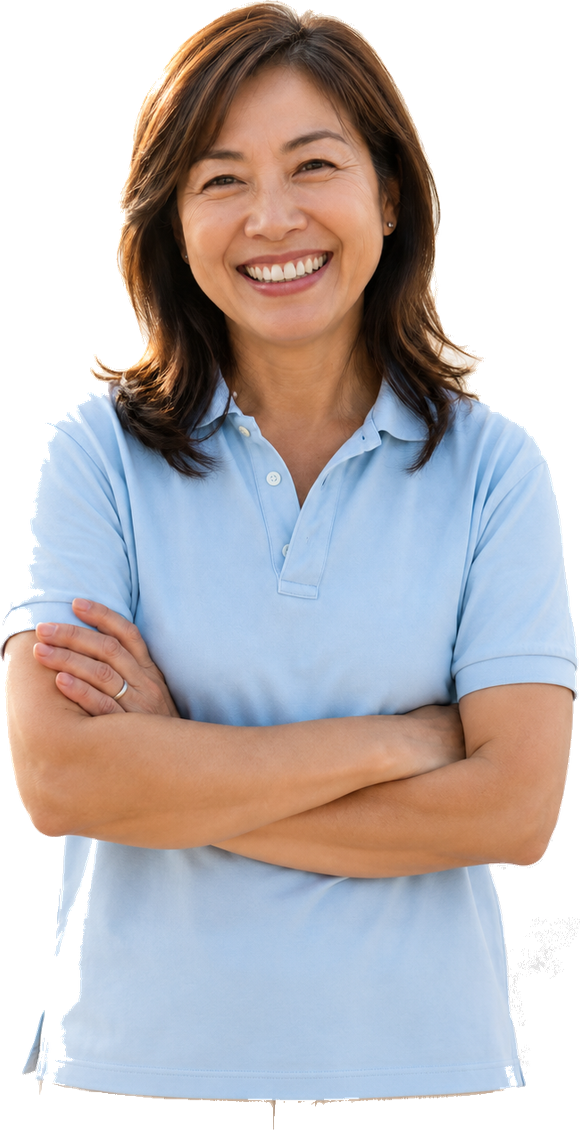
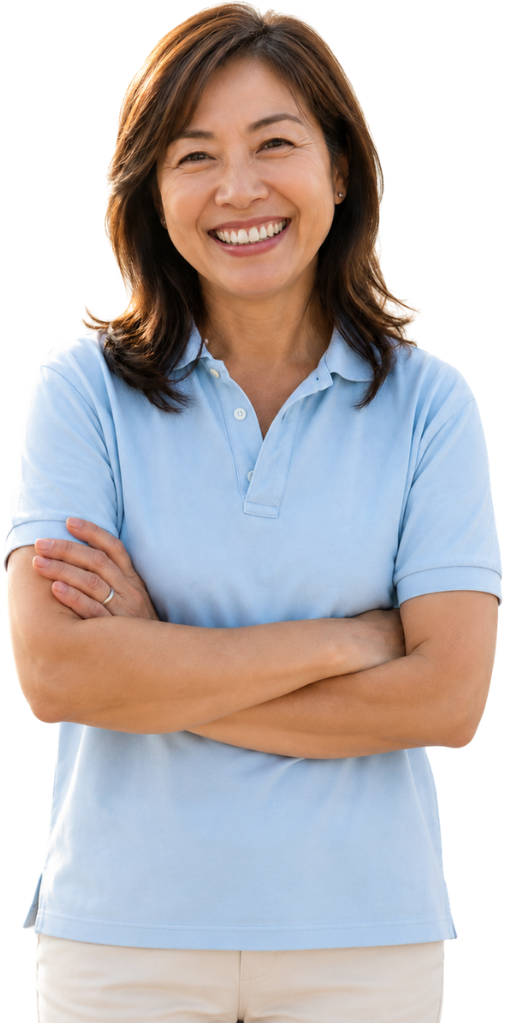
Flow 1: match testimonials to flow 2 (video + text quote cards, "What people are saying"). /full: use user's new clean woman cutout (no editing needed)
Claude-Session: https://claude.ai/code/session_014opSkJ5xHgMgTEtidU8aMQ

diff --git a/public/landing/index.html b/public/landing/index.html
@@ -233,34 +233,29 @@
     .clinic-doc .doc-cred { font-size:12px; color:var(--brand); font-weight:700; margin-top:2px; }
     .clinic-doc .doc-role { font-size:12px; color:var(--ink-soft); margin-top:2px; line-height:1.4; }
 
-    /* SOCIAL PROOF (testimonials) - moving marquee */
-    .reviews-mq { overflow:hidden; padding:6px 0; -webkit-mask-image:linear-gradient(90deg,transparent,#000 5%,#000 95%,transparent); mask-image:linear-gradient(90deg,transparent,#000 5%,#000 95%,transparent); }
-    .reviews-track { display:flex; gap:20px; width:max-content; animation:reviewscroll 64s linear infinite; }
-    .reviews-mq:hover .reviews-track { animation-play-state:paused; }
-    .reviews-track .quote { width:350px; flex-shrink:0; }
-    @keyframes reviewscroll { from { transform:translateX(0); } to { transform:translateX(-50%); } }
-    /* Full-bleed magazine card: photo spans the full top, name + quote below. */
-    .quote { background:var(--card); border:1px solid var(--line); border-radius:var(--radius); padding:0; box-shadow:var(--shadow); display:flex; flex-direction:column; overflow:hidden; }
-    .quote .mark { display:none; } /* drop the big curly mark in this layout */
-    /* The .by wrapper becomes the full-width photo banner (order -1 = on top). */
-    .quote .by { order:-1; display:block; position:relative; margin:0; }
-    /* Photo banner: full width, fixed aspect, edge-to-edge across the card top. */
-    .quote .avatar { position:relative; width:100%; height:200px; border-radius:0; background:linear-gradient(135deg,var(--brand-2),var(--brand)); color:#fff; font-weight:800; font-size:56px; display:grid; place-items:center; overflow:hidden; }
-    /* Image fills the banner via absolute positioning so a slow/failed load can
-       never collapse the 200px height; the initials sit behind as a fallback. */
-    .quote .avatar img { position:absolute; inset:0; width:100%; height:100%; object-fit:cover; object-position:center 25%; }
-    /* Name + role overlaid on a gradient scrim at the bottom of the photo.
-       Target the name block specifically (NOT .avatar, which is also a > div
-       child of .by) - otherwise the avatar gets position:absolute and collapses. */
-    .quote .by > div:not(.avatar) { position:absolute; left:0; right:0; bottom:0; padding:32px 22px 14px; text-align:left;
-      background:linear-gradient(180deg, transparent, rgba(20,12,6,.82)); }
-    .quote .by-name { font-weight:800; font-size:18px; color:#fff; }
-    .quote .by-role { font-weight:500; font-size:13px; color:rgba(255,255,255,.85); margin-top:2px; }
-    /* Quote text sits in the padded panel below the photo. */
-    .quote p.text { font-size:15px; color:var(--ink); line-height:1.62; flex:1; margin:0; padding:22px 24px 26px; }
-    .quote p.text::before { content:"\201C"; font-family:Georgia,serif; color:var(--brand-2); font-size:30px; line-height:0; vertical-align:-8px; margin-right:4px; }
-    @media (prefers-reduced-motion:reduce) { .reviews-track { animation:none; } }
-    @media (max-width:680px) { .reviews-track .quote { width:82vw; } }
+    /* SOCIAL PROOF - video / member reviews (Mito-style tall cards) */
+    .vr-rating { display:flex; align-items:center; justify-content:center; gap:10px; margin:14px 0 38px; font-size:15px; color:var(--ink-soft); }
+    .vr-rating b { color:var(--ink); }
+    .vr-rating .stars { color:#00b67a; letter-spacing:2px; font-size:16px; }
+    .vr-row { display:flex; gap:20px; overflow-x:auto; overflow-y:hidden; -webkit-overflow-scrolling:touch; scroll-snap-type:x proximity; padding:0 22px 14px;
+      -webkit-mask-image:linear-gradient(90deg, transparent, #000 3%, #000 97%, transparent); mask-image:linear-gradient(90deg, transparent, #000 3%, #000 97%, transparent); }
+    .vr-row::-webkit-scrollbar { height:6px; }
+    .vr-row::-webkit-scrollbar-thumb { background:var(--line); border-radius:999px; }
+    .vr-row::-webkit-scrollbar-track { background:transparent; }
+    .vr-card { flex:0 0 300px; aspect-ratio:9 / 16; border-radius:20px; overflow:hidden; position:relative; background:#ece8e1; scroll-snap-align:start; }
+    .vr-card.video { background:linear-gradient(160deg, #cfd6d2, #9aa7a0 60%, #6c7a72); display:grid; place-items:center; }
+    .vr-card.video .play { width:56px; height:56px; border-radius:50%; background:rgba(255,255,255,.92); display:grid; place-items:center; box-shadow:0 8px 24px rgba(0,0,0,.25); }
+    .vr-card.video .play::before { content:""; border-style:solid; border-width:9px 0 9px 15px; border-color:transparent transparent transparent var(--ink); margin-left:3px; }
+    .vr-card.video .handle { position:absolute; left:16px; bottom:16px; color:#fff; font-size:13px; font-weight:600; text-shadow:0 1px 4px rgba(0,0,0,.4); }
+    .vr-card.video .badge { position:absolute; top:14px; right:14px; font-size:10px; font-weight:700; letter-spacing:.08em; color:rgba(255,255,255,.9); }
+    .vr-card.quote { background:var(--cream); display:flex; flex-direction:column; justify-content:center; text-align:center; padding:30px 26px; border:0; box-shadow:none; }
+    .vr-card.quote .stars { color:#1a1a1a; letter-spacing:2px; margin-bottom:16px; }
+    .vr-card.quote h4 { font-size:19px; color:var(--ink); margin-bottom:12px; }
+    .vr-card.quote p { font-size:15px; color:var(--ink-soft); line-height:1.55; margin-bottom:22px; }
+    .vr-card.quote .by { display:flex; align-items:center; justify-content:center; gap:9px; }
+    .vr-card.quote .by .av { width:30px; height:30px; border-radius:50%; background:var(--bg); display:grid; place-items:center; font-size:11px; font-weight:700; color:var(--ink-soft); border:1px solid var(--line); }
+    .vr-card.quote .by .nm { font-size:14px; font-weight:600; color:var(--ink); }
+    @media (max-width:520px) { .vr-card { flex-basis:78vw; } }
 
     /* FOOTER */
     footer { background:var(--deep); color:#d9cdba; padding:48px 0 30px; font-size:14px; }
@@ -490,26 +485,35 @@
     </div>
   </section>
 
-  <!-- SOCIAL PROOF -->
+  <!-- SOCIAL PROOF - video / member reviews -->
   <section class="section" style="padding-top:0;">
     <div class="wrap">
-      <div class="head"><h2>Trusted by people like you</h2></div>
+      <div class="head">
+        <h2>What people are saying</h2>
+        <p class="vr-rating"><span class="stars">★★★★★</span> <b>Excellent</b> 4.8 out of 5</p>
+      </div>
     </div>
-    <div class="reviews-mq">
-      <div class="reviews-track">
-        <div class="quote"><div class="mark">“</div><p class="text">Honestly, I track everything else - sleep, steps, my weight - but I'd never once looked at my brain. The quiz flagged two things I can actually do something about.</p><div class="by"><div class="avatar"><!-- PLACEHOLDER photo - swap for a real customer portrait --><img src="/landing/person-serene.jpg" alt="" loading="lazy" onerror="this.remove()" /><span>SL</span></div><div><p class="by-name">Serene Lim</p><p class="by-role">54, secondary school teacher</p></div></div></div>
-        <div class="quote"><div class="mark">“</div><p class="text">I had no idea sleep and blood pressure were this tied to brain health. I ended up booking a proper check for my dad too.</p><div class="by"><div class="avatar"><!-- PLACEHOLDER photo --><img src="/landing/person-marcus.jpg" alt="" loading="lazy" onerror="this.remove()" /><span>MT</span></div><div><p class="by-name">Marcus Tan</p><p class="by-role">47, sales manager</p></div></div></div>
-        <div class="quote"><div class="mark">“</div><p class="text">This actually felt useful. The brain fog finally felt like something I could measure, not just me being tired.</p><div class="by"><div class="avatar"><!-- PLACEHOLDER photo --><img src="/landing/person-priya.jpg" alt="" loading="lazy" onerror="this.remove()" /><span>PR</span></div><div><p class="by-name">Priya Raman</p><p class="by-role">39, marketing lead</p></div></div></div>
-        <div class="quote"><div class="mark">“</div><p class="text">I'd been blaming age for the forgetfulness. Turns out a few habits were the bigger driver - and those I can actually change.</p><div class="by"><div class="avatar"><!-- PLACEHOLDER photo --><img src="/landing/person-daniel.jpg" alt="" loading="lazy" onerror="this.remove()" /><span>DK</span></div><div><p class="by-name">Daniel Koh</p><p class="by-role">61, retired engineer</p></div></div></div>
-        <div class="quote"><div class="mark">“</div><p class="text">Quick, clear, and it didn't try to scare me. I ended up sharing my score with my GP.</p><div class="by"><div class="avatar"><!-- PLACEHOLDER photo --><img src="/landing/person-aisha.jpg" alt="" loading="lazy" onerror="this.remove()" /><span>AR</span></div><div><p class="by-name">Aisha Rahman</p><p class="by-role">43, nurse</p></div></div></div>
-        <div class="quote"><div class="mark">“</div><p class="text">I liked that it explained why each thing mattered. It felt like advice, not a sales pitch.</p><div class="by"><div class="avatar"><!-- PLACEHOLDER photo --><img src="/landing/person-weijie.jpg" alt="" loading="lazy" onerror="this.remove()" /><span>WO</span></div><div><p class="by-name">Wei Jie Ong</p><p class="by-role">35, software engineer</p></div></div></div>
-        <!-- duplicate set for a seamless loop -->
-        <div class="quote" aria-hidden="true"><div class="mark">“</div><p class="text">Honestly, I track everything else - sleep, steps, my weight - but I'd never once looked at my brain. The quiz flagged two things I can actually do something about.</p><div class="by"><div class="avatar"><img src="/landing/person-serene.jpg" alt="" loading="lazy" onerror="this.remove()" /><span>SL</span></div><div><p class="by-name">Serene Lim</p><p class="by-role">54, secondary school teacher</p></div></div></div>
-        <div class="quote" aria-hidden="true"><div class="mark">“</div><p class="text">I had no idea sleep and blood pressure were this tied to brain health. I ended up booking a proper check for my dad too.</p><div class="by"><div class="avatar"><img src="/landing/person-marcus.jpg" alt="" loading="lazy" onerror="this.remove()" /><span>MT</span></div><div><p class="by-name">Marcus Tan</p><p class="by-role">47, sales manager</p></div></div></div>
-        <div class="quote" aria-hidden="true"><div class="mark">“</div><p class="text">This actually felt useful. The brain fog finally felt like something I could measure, not just me being tired.</p><div class="by"><div class="avatar"><img src="/landing/person-priya.jpg" alt="" loading="lazy" onerror="this.remove()" /><span>PR</span></div><div><p class="by-name">Priya Raman</p><p class="by-role">39, marketing lead</p></div></div></div>
-        <div class="quote" aria-hidden="true"><div class="mark">“</div><p class="text">I'd been blaming age for the forgetfulness. Turns out a few habits were the bigger driver - and those I can actually change.</p><div class="by"><div class="avatar"><img src="/landing/person-daniel.jpg" alt="" loading="lazy" onerror="this.remove()" /><span>DK</span></div><div><p class="by-name">Daniel Koh</p><p class="by-role">61, retired engineer</p></div></div></div>
-        <div class="quote" aria-hidden="true"><div class="mark">“</div><p class="text">Quick, clear, and it didn't try to scare me. I ended up sharing my score with my GP.</p><div class="by"><div class="avatar"><img src="/landing/person-aisha.jpg" alt="" loading="lazy" onerror="this.remove()" /><span>AR</span></div><div><p class="by-name">Aisha Rahman</p><p class="by-role">43, nurse</p></div></div></div>
-        <div class="quote" aria-hidden="true"><div class="mark">“</div><p class="text">I liked that it explained why each thing mattered. It felt like advice, not a sales pitch.</p><div class="by"><div class="avatar"><img src="/landing/person-weijie.jpg" alt="" loading="lazy" onerror="this.remove()" /><span>WO</span></div><div><p class="by-name">Wei Jie Ong</p><p class="by-role">35, software engineer</p></div></div></div>
+    <div class="vr-row">
+      <div class="vr-card video"><span class="badge">▶ VIDEO</span><div class="play"></div><span class="handle">@member_review</span></div>
+      <div class="vr-card quote">
+        <div class="stars">★★★★★</div>
+        <h4>Clear and reassuring</h4>
+        <p>I finally understand my brain health instead of just worrying about it. The report made sense.</p>
+        <div class="by"><span class="av">SL</span><span class="nm">Serene L.</span></div>
+      </div>
+      <div class="vr-card video"><span class="badge">▶ VIDEO</span><div class="play"></div><span class="handle">@member_review</span></div>
+      <div class="vr-card quote">
+        <div class="stars">★★★★★</div>
+        <h4>Worth every minute</h4>
+        <p>Fifteen minutes and a doctor walked me through exactly what to focus on. No upsells, just answers.</p>
+        <div class="by"><span class="av">MT</span><span class="nm">Marcus T.</span></div>
+      </div>
+      <div class="vr-card video"><span class="badge">▶ VIDEO</span><div class="play"></div><span class="handle">@member_review</span></div>
+      <div class="vr-card quote">
+        <div class="stars">★★★★★</div>
+        <h4>No more guessing</h4>
+        <p>I'd been blaming age for the forgetfulness. Now I know which habits actually move the needle.</p>
+        <div class="by"><span class="av">PR</span><span class="nm">Priya R.</span></div>
       </div>
     </div>
   </section>
